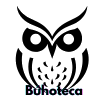
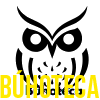
CAMBIOS PARA INICIO DE SESIÓN EXITOSO Y REQUERIDO PARA FUNCIONES

Changed region(s): [[0.0, 0.69, 0.99, 0.99]]

diff --git a/templates/base.html b/templates/base.html
@@ -16,45 +16,38 @@
 </head>
 <body>
     <!-- Navbar -->
-    <nav class="navbar navbar-expand-lg navbar-dark">
-        <div class="container position-relative">
-            <a class="navbar-brand position-absolute top-0 end-0" href="{{ url_for('index') }}">
-                <img src="{{ url_for('static', filename='img/logo.png') }}" alt="UNISON" class="logo">
-            </a>
-            <button class="navbar-toggler" type="button" data-bs-toggle="collapse" data-bs-target="#navbarNav">
-                <span class="navbar-toggler-icon"></span>
-            </button>
-            <div class="collapse navbar-collapse" id="navbarNav">
-                <ul class="navbar-nav me-auto">
-                    <li class="nav-item">
-                        <a class="nav-link" href="{{ url_for('index') }}">Inicio</a>
-                    </li>
-                    <li class="nav-item">
-                        <a class="nav-link" href="{{ url_for('listar_areas') }}">Áreas</a>
-                    </li>
-                    <li class="nav-item">
-                        <a class="nav-link" href="{{ url_for('catalogos') }}">Catálogos</a>
-                    </li>
-                    <li class="nav-item">
-                        <a class="nav-link" href="{{ url_for('explorar') }}">Explorar</a>
-                    </li>
-                    <li class="nav-item">
-                        <a class="nav-link" href="{{ url_for('buscar') }}">Búsqueda</a>
-                    </li>
-                    <li class="nav-item">
-                        <a class="nav-link" href="{{ url_for('creditos') }}">Guardados</a>
-                    </li>                    
-                    <li class="nav-item">
-                        <a class="nav-link" href="{{ url_for('creditos') }}">Créditos</a>
-                    </li>
-                </ul>
-                <form class="d-flex justify-content-center w-100" action="{{ url_for('buscar') }}" method="get">
-                    
-                    
-                </form>
-                
-                <!-- Botón de Logout si el usuario está logueado -->
-                {% if usuario %}
+<nav class="navbar navbar-expand-lg navbar-dark">
+    <div class="container position-relative">
+
+        <!-- Imagen del búho en la esquina superior izquierda -->
+        <a class="navbar-brand2 position-absolute top-0 start-0" href="{{ url_for('index') }}">
+            <img src="{{ url_for('static', filename='img/buho.png') }}" alt="Logo Búho" style="height: 50px;">
+        </a>
+
+        <!-- Logo UNISON en la esquina superior derecha -->
+        <a class="navbar-brand position-absolute top-0 end-0" href="{{ url_for('index') }}">
+            <img src="{{ url_for('static', filename='img/logo.png') }}" alt="UNISON" class="logo">
+        </a>
+
+        <!-- Botón de hamburguesa -->
+        <button class="navbar-toggler" type="button" data-bs-toggle="collapse" data-bs-target="#navbarNav">
+            <span class="navbar-toggler-icon"></span>
+        </button>
+        
+        <!-- Menú de navegación -->
+        <div class="collapse navbar-collapse justify-content-center" id="navbarNav">
+            <ul class="navbar-nav me-auto">
+                <li class="nav-item"><a class="nav-link" href="{{ url_for('index') }}">Inicio</a></li>
+                <li class="nav-item"><a class="nav-link" href="{{ url_for('listar_areas') }}">Áreas</a></li>
+                <li class="nav-item"><a class="nav-link" href="{{ url_for('catalogos') }}">Catálogos</a></li>
+                <li class="nav-item"><a class="nav-link" href="{{ url_for('explorar') }}">Explorar</a></li>
+                <li class="nav-item"><a class="nav-link" href="{{ url_for('buscar') }}">Búsqueda</a></li>
+                <li class="nav-item"><a class="nav-link" href="{{ url_for('creditos') }}">Guardados</a></li>
+                <li class="nav-item"><a class="nav-link" href="{{ url_for('creditos') }}">Créditos</a></li>
+            </ul>
+
+                            {% if 'usuario' in session %}
+                    <span class="text-light me-3">Bienvenido, {{ session['usuario'] }}</span>
                     <a href="{{ url_for('logout') }}" class="btn btn-danger ms-2">Cerrar sesión</a>
                 {% else %}
                     <a href="{{ url_for('login') }}" class="btn btn-primary ms-2">Iniciar sesión</a>
@@ -62,6 +55,7 @@
             </div>
         </div>
     </nav>
+
 
     <!-- Main Content -->
     <main class="container my-4">

diff --git a/templates/index.html b/templates/index.html
@@ -5,8 +5,10 @@
 {% block content %}
     <div class="container mt-4">
         {% if usuario %}
-            <h2>Bienvenido, {{ usuario }}!</h2>
-        {% else %}
+            <h1>Bienvenido, {{ usuario }}!</h1>
+                <p class="lead">Bienvenido a Buhoteca, tu sistema de exploración académica. Aquí puedes buscar, explorar y gestionar revistas científicas de forma sencilla.</p>
+                                <img src="{{ url_for('static', filename='img/aaaaaaaaaaaa.jpg') }}" alt="Logo de Buhoteca" class="img-fluid my-4" style="max-width: 1415px;">
+                {% else %}
             <h2>Por favor, inicia sesión</h2>
         {% endif %}
     </div>

diff --git a/static/css/styles.css b/static/css/styles.css
@@ -17,8 +17,17 @@ body {
     height: 50px;
     object-fit: contain;
         position: absolute;
-    top: 4px; /* Ajusta la distancia superior */
+    top: -3px; /* Ajusta la distancia superior */
     right: -100px; /* Ajusta la distancia derecha */
+}
+.navbar .navbar-brand2 img {
+    width: 50px;
+    height: 50px;
+    object-fit: contain;
+    position: absolute;
+    top: -10px;
+    left: -100px; /* Separación desde el borde izquierdo */
+    z-index: 10;
 }
 
 /* Círculo para la imagen del logo */

diff --git a/templates/revista_detalle.html b/templates/revista_detalle.html
@@ -45,7 +45,10 @@
         <th>ID</th>
         <td>{{ revista.id or 'No disponible' }}</td>
     </tr>
+    
 </table>
+
+<a href="{{ url_for('guardar', titulo=revista.nombre) }}" class="btn btn-success">Guardar revista</a>
 
 <a href="{{ url_for('index') }}" class="btn btn-secondary">Volver al inicio</a>
 {% endblock %}

diff --git a/app.py b/app.py
@@ -3,6 +3,8 @@ from funciones import SistemaRevistas
 import os
 import csv
 import json
+from functools import wraps
+
 
 app = Flask(__name__)
 app.secret_key = 'clave_secreta_super_segura'
@@ -13,6 +15,19 @@ sistema.cargar_usuarios_desde_csv(r'C:\Users\YUGEN\Documents\ProyectoFinalDS4202
 sistema.cargar_areas_desde_csv(r'C:\Users\YUGEN\Documents\ProyectoFinalDS42025\datos\csv\areas')
 sistema.cargar_catalogos_desde_csv(r'C:\Users\YUGEN\Documents\ProyectoFinalDS42025\datos\csv\catalogos')
 sistema.cargar_json(r'C:\Users\YUGEN\Documents\ProyectoFinalDS42025\datos\json\revistas_scimagojr.json')
+
+
+
+def login_required(f):
+    @wraps(f)
+    def decorated_function(*args, **kwargs):
+        if 'usuario' not in session:
+            return redirect(url_for('login', next=request.url))
+        return f(*args, **kwargs)
+    return decorated_function
+
+
+
 
 
 @app.route('/')
@@ -44,6 +59,7 @@ def logout():
     return redirect(url_for('index')) 
 
 @app.route("/buscar", methods=["GET", "POST"])
+@login_required
 def buscar():
     resultados = []
     if request.method == "POST":
@@ -77,6 +93,7 @@ def top():
     return render_template('top.html', revistas=revistas_top)
 
 @app.route('/area', methods=['GET', 'POST'])
+@login_required
 def area():
     revistas_area = []
     if request.method == 'POST':
@@ -85,29 +102,34 @@ def area():
     return render_template('area.html', revistas=revistas_area)
 
 @app.route('/areas')
+@login_required
 def listar_areas():
     areas = sistema.areas_disponibles()
     return render_template('areas.html', areas=areas)
 
 
 @app.route('/area/<area>')
+@login_required
 def area_detalle(area):
     revistas = sistema.revistas_por_area(area)
     return render_template('area_detalle.html', area=area, revistas=revistas)
     
 
 @app.route('/catalogos')
+@login_required
 def catalogos():
     catalogos = sistema.catalogos_disponibles()
     return render_template('catalogos.html', catalogos=catalogos)
 
 @app.route('/catalogo/<catalogo>')
+@login_required
 def catalogo_detalle(catalogo):
     revistas = sistema.revistas_por_catalogo(catalogo)  # Ahora debería funcionar
     return render_template('catalogo_detalle.html', catalogo=catalogo, revistas=revistas)
 
 
 @app.route('/explorar')
+@login_required
 def explorar():
     letra = request.args.get('letra', '').upper()
     area_filtro = request.args.get('area', '')
@@ -198,6 +220,37 @@ def resumen():
     total = len(sistema.revistas)
     promedio = sum(r.h_index for r in sistema.revistas.values()) / total if total > 0 else 0
     return render_template('resumen.html', total=total, promedio=promedio)
+
+@app.route('/guardados')
+def creditos():
+    if 'usuario' not in session:
+        flash("Debes iniciar sesión para ver tus revistas guardadas.")
+        return redirect(url_for('login'))
+
+    usuario = session['usuario']
+    ruta_archivo = os.path.join(RUTA_GUARDADOS, f"{usuario}.json")
+    if os.path.exists(ruta_archivo):
+        with open(ruta_archivo, "r", encoding="utf-8") as f:
+            revistas = json.load(f)
+    else:
+        revistas = []
+
+    return render_template("guardados.html", revistas=revistas)
+
+
+@app.route('/guardar/<titulo>')
+def guardar(titulo):
+    if 'usuario' not in session:
+        flash("Debes iniciar sesión para guardar revistas.")
+        return redirect(url_for('login'))
+    
+    usuario = session['usuario']
+    exito = guardar_revista(usuario, titulo)
+    if exito:
+        flash(f"Revista '{titulo}' guardada correctamente.")
+    else:
+        flash(f"La revista '{titulo}' ya estaba guardada.")
+    return redirect(url_for('revista_detalle', titulo=titulo))
 
 if __name__ == '__main__':
     app.run(debug=True)

diff --git a/funciones.py b/funciones.py
@@ -66,6 +66,7 @@ class SistemaRevistas:
         self.cargar_json(os.path.join(base_path, 'json', 'revistas_scimagojr.json'))
         self.cargar_catalogos_desde_csv(os.path.join(base_path, 'csv', 'catalogos'))
         self.cargar_areas_desde_csv(os.path.join(base_path, 'csv', 'areas'))
+        RUTA_GUARDADOS = r'C:\Users\YUGEN\Documents\ProyectoFinalDS42025\datos\guardados' 
 
     def cargar_json(self, ruta_archivo):
         try:
@@ -89,6 +90,8 @@ class SistemaRevistas:
             print(f"Revistas cargadas: {len(self.revistas)}")
         except Exception as e:
             print(f"Error cargando JSON: {e}")
+            
+            
 
     def cargar_areas_desde_csv(self, carpeta_areas):
         mapeo_nombres = {
@@ -172,6 +175,24 @@ class SistemaRevistas:
             key=lambda x: x['h_index'],
             reverse=True
         )
+    
+    def guardar_revista(usuario, revista):
+    ruta_archivo = os.path.join(RUTA_GUARDADOS, f"{usuario}.json")
+    
+    # Cargar datos previos
+    if os.path.exists(ruta_archivo):
+        with open(ruta_archivo, "r", encoding="utf-8") as f:
+            guardadas = json.load(f)
+    else:
+        guardadas = []
+
+    # Evitar duplicados
+    if revista not in guardadas:
+        guardadas.append(revista)
+        with open(ruta_archivo, "w", encoding="utf-8") as f:
+            json.dump(guardadas, f, indent=4, ensure_ascii=False)
+        return True
+    return False
 
     def revistas_por_catalogo(self, catalogo):
         """Obtiene las revistas asociadas a un catálogo específico con su h_index y área."""
